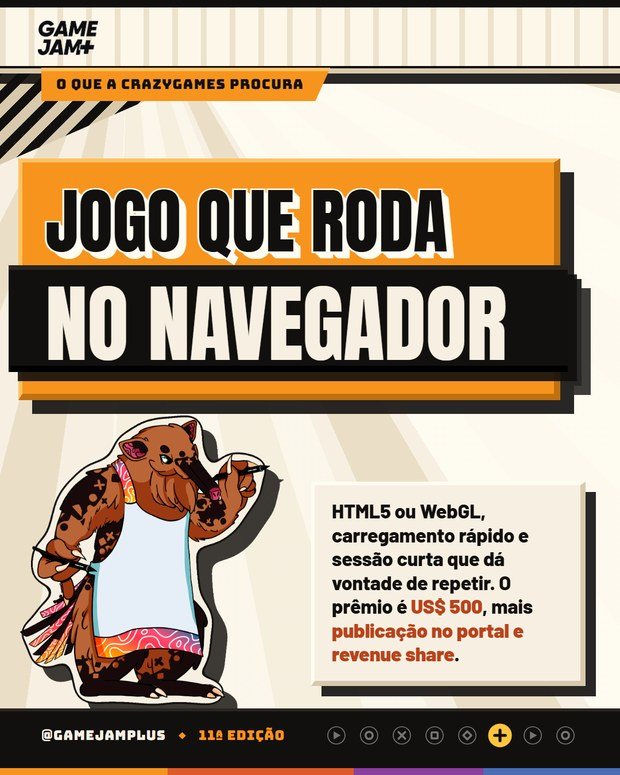
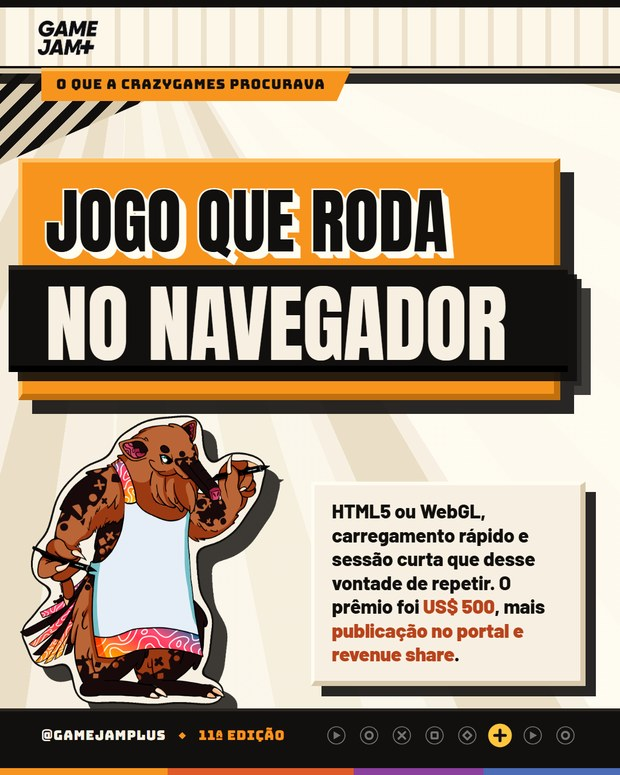
C02: tudo que descreve a edicao passada vai pro passado
O dono achou o post falando no presente de coisa que ja aconteceu. A etiqueta
da capa ja dizia "categorias de parceiro da EDICAO PASSADA", mas o corpo
inteiro estava no presente, como se as categorias estivessem valendo agora.

Passaram pro passado, nos dois idiomas:
  capa   "Duas empresas olham" -> "olharam" / "look" -> "looked"
  s4/s6  "O que a Wildlife/CrazyGames procura" -> "procurava"
         "is looking for" -> "was looking for"
  s4     "que segure o jogador" -> "segurasse"; "estao fora" -> "estavam
         fora"; "O premio e" -> "O premio foi" (os tres apontados pelo dono)
  s6     "que da vontade de repetir" -> "desse"; "O premio e" -> "foi"
  s7     "A parte que mais importa" -> "importava"; "A propriedade
         intelectual continua sua" -> "continuava"; "so acontece" ->
         "so acontecia"; "ninguem leva" -> "ninguem levava"
  EN     "are out" -> "were out", "prize is" -> "prize was", "IP stays" ->
         "stayed", "only happens" -> "only happened", "walks off" ->
         "walked off", "matters most" -> "mattered most"

FICA no presente de proposito, porque nao e evento e sim fato corrente das
empresas: fundacao, "hoje tem escritorio em tres paises", os 4,5 bilhoes de
downloads, os 45 milhoes de jogadores ativos por mes. E o CTA do s8, que
convida agora.

Legenda dos dois idiomas reescrita no mesmo tempo verbal, senao a arte diria
uma coisa e o texto outra.

Conferido por varredura: nenhum verbo de presente sobrou descrevendo a
edicao passada.

Changed region(s): [[0.6435, 0.7742, 0.8887, 0.8052], [0.4903, 0.0619, 0.5823, 0.1548], [0.7968, 0.7123, 0.8581, 0.7432]]

diff --git a/index.html b/index.html
@@ -263,7 +263,7 @@ dialog img{width:min(92vw,620px);max-height:92dvh;object-fit:contain;border-radi
 <article class="c" data-cat="01-conteudos-gj" data-lang="PT" data-busca="c02 - wildlife e crazygames gj+" id="c203">
   <header><div><span class="tagcat">GJ+</span><span class="taglang PT">PT</span><h2>C02 - Wildlife e CrazyGames</h2></div>
   <div class="nav"><button aria-label="Anterior" data-d="-1">←</button><button aria-label="Próximo" data-d="1">→</button><span class="cont">8</span></div></header>
-  <div class="strip"><figure><img src="img/01-conteudos-gj-pt-c02-wildlife-e-crazygames/slide_01.jpg?v=5" alt="C02 - Wildlife e CrazyGames 1" width="620" height="775" loading="lazy" decoding="async"><figcaption>01</figcaption></figure><figure><img src="img/01-conteudos-gj-pt-c02-wildlife-e-crazygames/slide_02.jpg?v=5" alt="C02 - Wildlife e CrazyGames 2" width="620" height="775" loading="lazy" decoding="async"><figcaption>02</figcaption></figure><figure><img src="img/01-conteudos-gj-pt-c02-wildlife-e-crazygames/slide_03.jpg?v=5" alt="C02 - Wildlife e CrazyGames 3" width="620" height="775" loading="lazy" decoding="async"><figcaption>03</figcaption></figure><figure><img src="img/01-conteudos-gj-pt-c02-wildlife-e-crazygames/slide_04.jpg?v=5" alt="C02 - Wildlife e CrazyGames 4" width="620" height="775" loading="lazy" decoding="async"><figcaption>04</figcaption></figure><figure><img src="img/01-conteudos-gj-pt-c02-wildlife-e-crazygames/slide_05.jpg?v=5" alt="C02 - Wildlife e CrazyGames 5" width="620" height="775" loading="lazy" decoding="async"><figcaption>05</figcaption></figure><figure><img src="img/01-conteudos-gj-pt-c02-wildlife-e-crazygames/slide_06.jpg?v=5" alt="C02 - Wildlife e CrazyGames 6" width="620" height="775" loading="lazy" decoding="async"><figcaption>06</figcaption></figure><figure><img src="img/01-conteudos-gj-pt-c02-wildlife-e-crazygames/slide_07.jpg?v=5" alt="C02 - Wildlife e CrazyGames 7" width="620" height="775" loading="lazy" decoding="async"><figcaption>07</figcaption></figure><figure><img src="img/01-conteudos-gj-pt-c02-wildlife-e-crazygames/slide_08.jpg?v=5" alt="C02 - Wildlife e CrazyGames 8" width="620" height="775" loading="lazy" decoding="async"><figcaption>08</figcaption></figure></div></article>
+  <div class="strip"><figure><img src="img/01-conteudos-gj-pt-c02-wildlife-e-crazygames/slide_01.jpg?v=6" alt="C02 - Wildlife e CrazyGames 1" width="620" height="775" loading="lazy" decoding="async"><figcaption>01</figcaption></figure><figure><img src="img/01-conteudos-gj-pt-c02-wildlife-e-crazygames/slide_02.jpg?v=6" alt="C02 - Wildlife e CrazyGames 2" width="620" height="775" loading="lazy" decoding="async"><figcaption>02</figcaption></figure><figure><img src="img/01-conteudos-gj-pt-c02-wildlife-e-crazygames/slide_03.jpg?v=6" alt="C02 - Wildlife e CrazyGames 3" width="620" height="775" loading="lazy" decoding="async"><figcaption>03</figcaption></figure><figure><img src="img/01-conteudos-gj-pt-c02-wildlife-e-crazygames/slide_04.jpg?v=6" alt="C02 - Wildlife e CrazyGames 4" width="620" height="775" loading="lazy" decoding="async"><figcaption>04</figcaption></figure><figure><img src="img/01-conteudos-gj-pt-c02-wildlife-e-crazygames/slide_05.jpg?v=6" alt="C02 - Wildlife e CrazyGames 5" width="620" height="775" loading="lazy" decoding="async"><figcaption>05</figcaption></figure><figure><img src="img/01-conteudos-gj-pt-c02-wildlife-e-crazygames/slide_06.jpg?v=6" alt="C02 - Wildlife e CrazyGames 6" width="620" height="775" loading="lazy" decoding="async"><figcaption>06</figcaption></figure><figure><img src="img/01-conteudos-gj-pt-c02-wildlife-e-crazygames/slide_07.jpg?v=6" alt="C02 - Wildlife e CrazyGames 7" width="620" height="775" loading="lazy" decoding="async"><figcaption>07</figcaption></figure><figure><img src="img/01-conteudos-gj-pt-c02-wildlife-e-crazygames/slide_08.jpg?v=6" alt="C02 - Wildlife e CrazyGames 8" width="620" height="775" loading="lazy" decoding="async"><figcaption>08</figcaption></figure></div></article>
 <article class="c" data-cat="01-conteudos-gj" data-lang="PT" data-busca="o21 - a plataforma faz metade do trabalho gj+" id="c204">
   <header><div><span class="tagcat">GJ+</span><span class="taglang PT">PT</span><h2>O21 - A plataforma faz metade do trabalho</h2></div>
   <div class="nav"><button aria-label="Anterior" data-d="-1">←</button><button aria-label="Próximo" data-d="1">→</button><span class="cont">7</span></div></header>
@@ -431,7 +431,7 @@ dialog img{width:min(92vw,620px);max-height:92dvh;object-fit:contain;border-radi
 <article class="c" data-cat="01-conteudos-gj" data-lang="EN" data-busca="c02 - wildlife and crazygames gj+" id="c207">
   <header><div><span class="tagcat">GJ+</span><span class="taglang EN">EN</span><h2>C02 - Wildlife and CrazyGames</h2></div>
   <div class="nav"><button aria-label="Anterior" data-d="-1">←</button><button aria-label="Próximo" data-d="1">→</button><span class="cont">8</span></div></header>
-  <div class="strip"><figure><img src="img/01-conteudos-gj-en-c02-wildlife-and-crazygames/slide_01.jpg?v=5" alt="C02 - Wildlife and CrazyGames 1" width="620" height="775" loading="lazy" decoding="async"><figcaption>01</figcaption></figure><figure><img src="img/01-conteudos-gj-en-c02-wildlife-and-crazygames/slide_02.jpg?v=5" alt="C02 - Wildlife and CrazyGames 2" width="620" height="775" loading="lazy" decoding="async"><figcaption>02</figcaption></figure><figure><img src="img/01-conteudos-gj-en-c02-wildlife-and-crazygames/slide_03.jpg?v=5" alt="C02 - Wildlife and CrazyGames 3" width="620" height="775" loading="lazy" decoding="async"><figcaption>03</figcaption></figure><figure><img src="img/01-conteudos-gj-en-c02-wildlife-and-crazygames/slide_04.jpg?v=5" alt="C02 - Wildlife and CrazyGames 4" width="620" height="775" loading="lazy" decoding="async"><figcaption>04</figcaption></figure><figure><img src="img/01-conteudos-gj-en-c02-wildlife-and-crazygames/slide_05.jpg?v=5" alt="C02 - Wildlife and CrazyGames 5" width="620" height="775" loading="lazy" decoding="async"><figcaption>05</figcaption></figure><figure><img src="img/01-conteudos-gj-en-c02-wildlife-and-crazygames/slide_06.jpg?v=5" alt="C02 - Wildlife and CrazyGames 6" width="620" height="775" loading="lazy" decoding="async"><figcaption>06</figcaption></figure><figure><img src="img/01-conteudos-gj-en-c02-wildlife-and-crazygames/slide_07.jpg?v=5" alt="C02 - Wildlife and CrazyGames 7" width="620" height="775" loading="lazy" decoding="async"><figcaption>07</figcaption></figure><figure><img src="img/01-conteudos-gj-en-c02-wildlife-and-crazygames/slide_08.jpg?v=5" alt="C02 - Wildlife and CrazyGames 8" width="620" height="775" loading="lazy" decoding="async"><figcaption>08</figcaption></figure></div></article>
+  <div class="strip"><figure><img src="img/01-conteudos-gj-en-c02-wildlife-and-crazygames/slide_01.jpg?v=6" alt="C02 - Wildlife and CrazyGames 1" width="620" height="775" loading="lazy" decoding="async"><figcaption>01</figcaption></figure><figure><img src="img/01-conteudos-gj-en-c02-wildlife-and-crazygames/slide_02.jpg?v=6" alt="C02 - Wildlife and CrazyGames 2" width="620" height="775" loading="lazy" decoding="async"><figcaption>02</figcaption></figure><figure><img src="img/01-conteudos-gj-en-c02-wildlife-and-crazygames/slide_03.jpg?v=6" alt="C02 - Wildlife and CrazyGames 3" width="620" height="775" loading="lazy" decoding="async"><figcaption>03</figcaption></figure><figure><img src="img/01-conteudos-gj-en-c02-wildlife-and-crazygames/slide_04.jpg?v=6" alt="C02 - Wildlife and CrazyGames 4" width="620" height="775" loading="lazy" decoding="async"><figcaption>04</figcaption></figure><figure><img src="img/01-conteudos-gj-en-c02-wildlife-and-crazygames/slide_05.jpg?v=6" alt="C02 - Wildlife and CrazyGames 5" width="620" height="775" loading="lazy" decoding="async"><figcaption>05</figcaption></figure><figure><img src="img/01-conteudos-gj-en-c02-wildlife-and-crazygames/slide_06.jpg?v=6" alt="C02 - Wildlife and CrazyGames 6" width="620" height="775" loading="lazy" decoding="async"><figcaption>06</figcaption></figure><figure><img src="img/01-conteudos-gj-en-c02-wildlife-and-crazygames/slide_07.jpg?v=6" alt="C02 - Wildlife and CrazyGames 7" width="620" height="775" loading="lazy" decoding="async"><figcaption>07</figcaption></figure><figure><img src="img/01-conteudos-gj-en-c02-wildlife-and-crazygames/slide_08.jpg?v=6" alt="C02 - Wildlife and CrazyGames 8" width="620" height="775" loading="lazy" decoding="async"><figcaption>08</figcaption></figure></div></article>
 <article class="c" data-cat="01-conteudos-gj" data-lang="EN" data-busca="o21 - the platform does half the work gj+" id="c208">
   <header><div><span class="tagcat">GJ+</span><span class="taglang EN">EN</span><h2>O21 - The platform does half the work</h2></div>
   <div class="nav"><button aria-label="Anterior" data-d="-1">←</button><button aria-label="Próximo" data-d="1">→</button><span class="cont">7</span></div></header>

diff --git a/legendas.js b/legendas.js
@@ -1053,7 +1053,7 @@ window.LEGENDAS = {
 "gj-c02": {
   "titulo": "C02 · Wildlife and CrazyGames",
   "p": [
-    "Two companies looked at GJ+ games last edition, and both could publish yours. Wildlife wants mobile free-to-play, hybrid casual or midcore, and pays US$ 1,000 plus up to US$ 5,000 in marketing. CrazyGames wants a browser game and pays US$ 500 plus publication on the portal. In both, the IP stays yours.",
+    "Two companies looked at GJ+ games last edition, and both could have published yours. Wildlife wanted mobile free-to-play, hybrid casual or midcore, and paid US$ 1,000 plus up to US$ 5,000 in marketing. CrazyGames wanted a browser game and paid US$ 500 plus publication on the portal. In both, the IP stayed yours.",
     "Drop which of the two your game would go for. The 11th edition opens in September, and the sign-up is in the link in bio."
   ],
   "tags": "#GameJamPlus #GameJam #GameDev #IndieDev #IndieGames #GameDevCommunity"
@@ -1062,7 +1062,7 @@ window.LEGENDAS = {
 "gj-c02-pt": {
   "titulo": "C02 · Wildlife e CrazyGames",
   "p": [
-    "Duas empresas olharam os jogos da GJ+ na edição passada, e as duas podiam publicar o seu. A Wildlife quer mobile free-to-play, hybrid casual ou midcore, e paga US$ 1.000 mais até US$ 5.000 em marketing. A CrazyGames quer jogo de navegador e paga US$ 500 mais publicação no portal. Nas duas, a propriedade intelectual continua sua.",
+    "Duas empresas olharam os jogos da GJ+ na edição passada, e as duas podiam publicar o seu. A Wildlife queria mobile free-to-play, hybrid casual ou midcore, e pagava US$ 1.000 mais até US$ 5.000 em marketing. A CrazyGames queria jogo de navegador e pagava US$ 500 mais publicação no portal. Nas duas, a propriedade intelectual continuava sua.",
     "Comenta aqui pra qual das duas o seu jogo iria. A 11ª edição abre em setembro, e a inscrição está no link da bio."
   ],
   "tags": "#GameJamPlus #GameJam #GameDev #IndieDev #IndieGames #GameDevCommunity"
